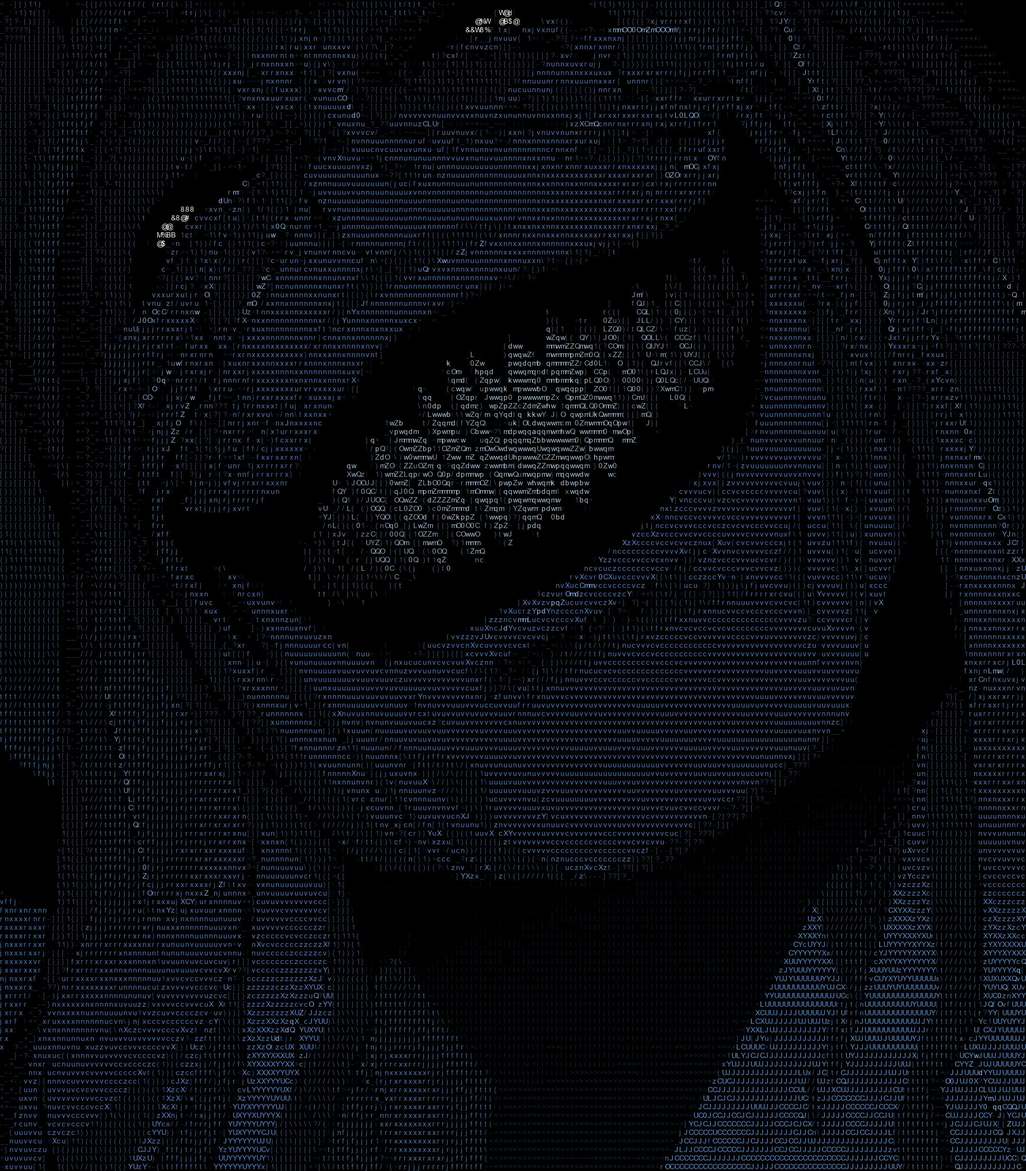
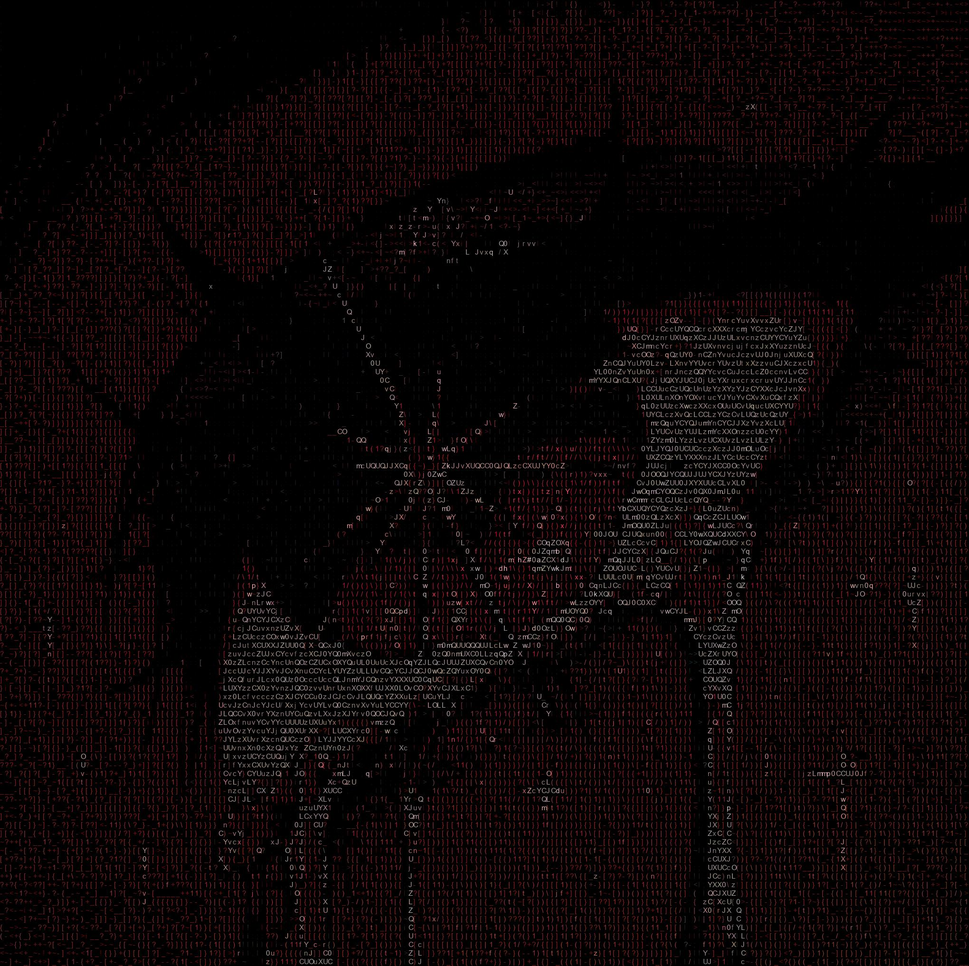
first web interface

Changed region(s): [[0.0, 0.0, 1.0, 1.0]]

diff --git a/ASCII_SHADER/templates/index.html b/ASCII_SHADER/templates/index.html
@@ -1,0 +1,14 @@
+<!DOCTYPE html>
+<html lang="en">
+  <head>
+    <meta charset="UTF-8" />
+    <meta name="viewport" content="width=device-width, initial-scale=1.0" />
+    <title>Hello World</title>
+  </head>
+  <body>
+    <div class="wrap">
+      <h1>Hello, World!</h1>
+      <p>This is your index.html — open it in a browser to see this page.</p>
+    </div>
+  </body>
+</html>

diff --git a/ASCII_SHADER/ASCII_SHADER.py b/ASCII_SHADER/ASCII_SHADER.py
@@ -1,9 +1,9 @@
 from PIL import Image, ImageDraw, ImageFont
-imagevar = Image.open("D:\Moonshot\ASCII_SHADER\sololevel.jpeg")
+imagevar = Image.open("D:\Moonshot\ASCII_SHADER\REDEYES.jpg") #CHECK EXTENSION!!!
 imagewidth = imagevar.width
 imageheight = imagevar.height
 
-ScaleFactor = 0.3
+ScaleFactor = 0.2
 
 oneCharWidth = 10 # we have to scale the image based on character width and height to maintain aspect ratio
 oneCharHeight = 18 
@@ -17,7 +17,7 @@ imagevar = imagevar.resize((int(imagewidth * ScaleFactor), int(imageheight * Sca
 imagewidth = imagevar.width
 imageheight = imagevar.height
 
-imageload = imagevar.load() # Get pixel access after resize
+imageload = imagevar.load() #load() method is used to explicitly load the image data into memory when you call image.open it just reads the file header and necessary metadata not the entire image data
 print(imageheight,imagewidth,imageheight/imagewidth)
 
 asciichars = "$@B%8&WM#*oahkbdpqwmZO0QLCJUYXzcvunxrjft/\\|()1{}[]?-_+~<>i!lI;:,. " [::-1]

diff --git a/ASCII_SHADER/app.py b/ASCII_SHADER/app.py
@@ -1,0 +1,10 @@
+from flask import Flask, render_template
+
+app = Flask(__name__)
+
+@app.route('/')
+def index():
+    return render_template('index.html') #looks into templates folder for index.html
+
+if __name__ == '__main__':
+    app.run(debug=True)
